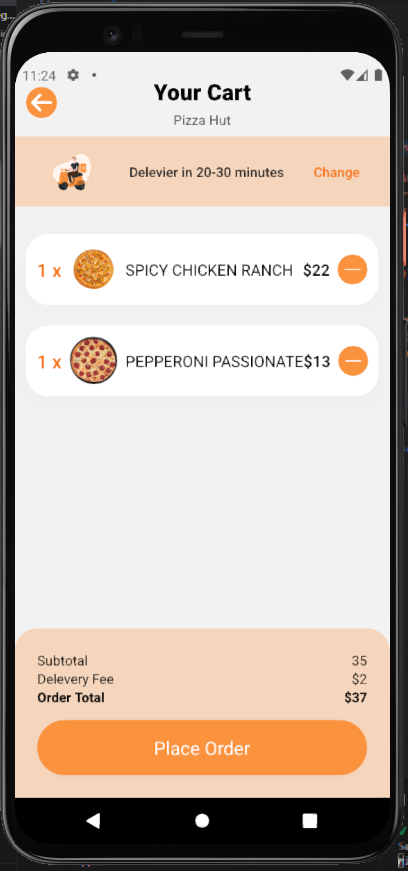
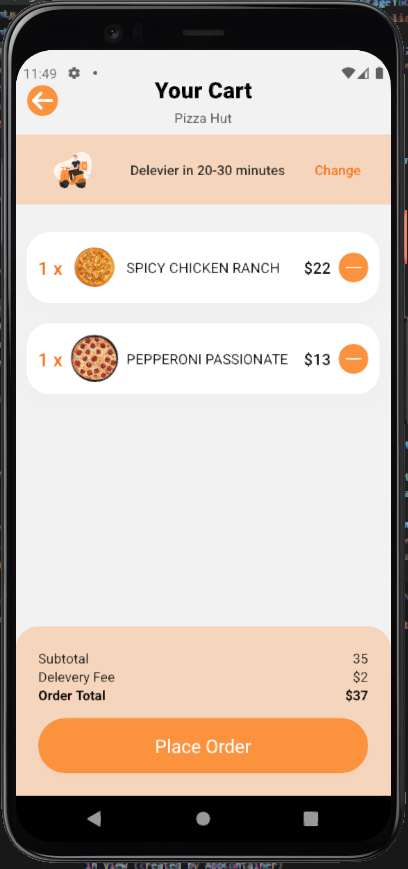
font size

diff --git a/client/src/Components/Cart/OrderCard.js b/client/src/Components/Cart/OrderCard.js
@@ -28,7 +28,7 @@ const OrderCard = ({item,key}) => {
                 <View className='rounded-full overflow-hidden' >
                     <Image source={{uri:urlFor(item[0]?.image).url()}} style={{ width: wp(13), height: wp(13) }} />
                 </View>
-                <Text style={{ fontSize: wp(4.2) }}>{item[0]?.name}</Text>
+                <Text style={{ fontSize: wp(3.8) }}>{item[0]?.name}</Text>
             </View>
             <View className='flex-row items-center ' style={{ gap: wp(2) }}>
                 <Text style={{ fontSize: wp(4.2) }} className='font-semibold'>${item[0]?.price}</Text>
